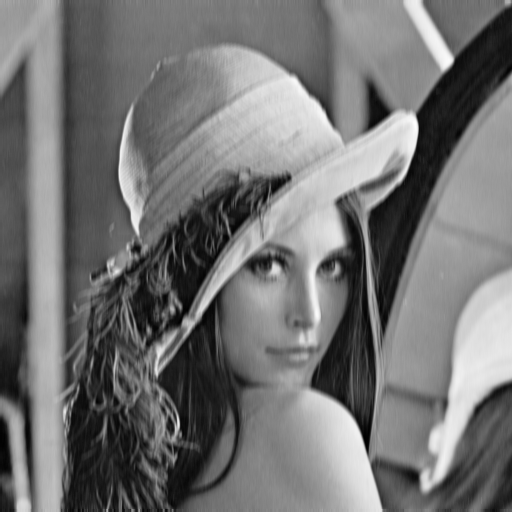
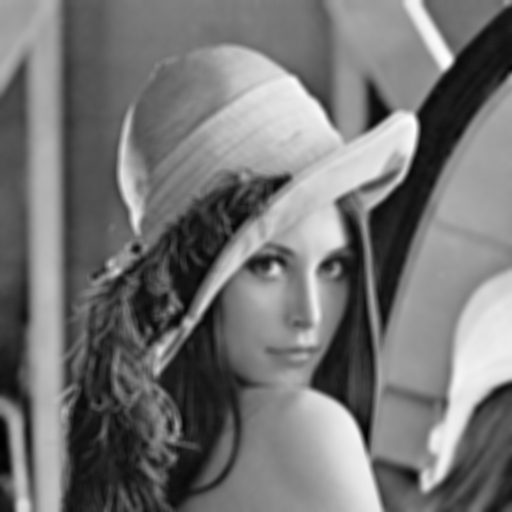
refactored blur result

diff --git a/src/image/filter.rs b/src/image/filter.rs
@@ -15,9 +15,7 @@ fn gaussian_1_d_kernel(mean: f64, std: f64, step: i8, end: i8) -> Vec<f64> {
     range.map(|x| gaussian_sample(mean,std,x as f64)).collect()
 }
 
-//TODO: normalize both
-
-pub fn gaussian_1_d_convolution_horizontal(source: & Image, target: &mut Image ,mean: f64, std: f64) -> () {
+pub fn gaussian_1_d_convolution_horizontal(source: &Image, mean: f64, std: f64) -> Image {
     let step: i8 = 1;
     let end: i8 = 3;
     let offset = (end as usize)/(step as usize);
@@ -27,6 +25,7 @@ pub fn gaussian_1_d_convolution_horizontal(source: & Image, target: &mut Image ,
     let buffer = &source.buffer;
     let width = buffer.ncols();
     let height = buffer.nrows();
+    let mut target =  Image::empty(height, width, source.original_encoding);
 
 
     for y in 0..height {
@@ -36,9 +35,9 @@ pub fn gaussian_1_d_convolution_horizontal(source: & Image, target: &mut Image ,
                     let sample_idx = (x as i32)+i;
                     let kenel_idx = i +offset as i32;
 
-                    let sample_value = match x {
-                        x if x < offset =>  buffer.index((y,0)),
-                        x if x >=  width-offset => buffer.index((y,width -1)),
+                    let sample_value = match sample_idx {
+                        sample_idx if sample_idx < 0 =>  buffer.index((y,0)),
+                        sample_idx if sample_idx >=  (width-offset) as i32 => buffer.index((y,width -1)),
                         _ => buffer.index((y,sample_idx as usize))
                     };
                     let kenel_value = kernel[kenel_idx as usize];
@@ -48,18 +47,13 @@ pub fn gaussian_1_d_convolution_horizontal(source: & Image, target: &mut Image ,
                 target.buffer[(y,x)] = acc;
 
         }
-
-
-
     }
 
-
-
-
+    target
 
 }
 
-pub fn gaussian_1_d_convolution_vertical(source: & Image, target: &mut Image,mean: f64, std: f64) -> () {
+pub fn gaussian_1_d_convolution_vertical(source: & Image,mean: f64, std: f64) -> Image {
     let step: i8 = 1;
     let end: i8 = 3;
     let offset = (end as usize)/(step as usize);
@@ -69,6 +63,7 @@ pub fn gaussian_1_d_convolution_vertical(source: & Image, target: &mut Image,mea
     let buffer =  &source.buffer;
     let width = buffer.ncols();
     let height = buffer.nrows();
+    let mut target =  Image::empty(height, width, source.original_encoding);
 
     for x in 0..width {
         for y in 0..height {
@@ -77,9 +72,9 @@ pub fn gaussian_1_d_convolution_vertical(source: & Image, target: &mut Image,mea
             for i in (-offset_signed..offset_signed+1). step_by(step as usize){
                 let sample_idx = (y as i32)+i;
                 let kenel_idx = i +offset as i32;
-                let sample_value = match y {
-                    y if y < offset =>  buffer.index((0,x)),
-                    y if y >=  height-offset => buffer.index((height -1,x)),
+                let sample_value = match sample_idx {
+                    sample_idx if sample_idx < 0 =>  buffer.index((0,x)),
+                    sample_idx if sample_idx >=  (height-offset) as i32 => buffer.index((height -1,x)),
                     _ =>  buffer.index((sample_idx as usize, x))
                 };
                 let kenel_value = kernel[kenel_idx as usize];
@@ -91,5 +86,12 @@ pub fn gaussian_1_d_convolution_vertical(source: & Image, target: &mut Image,mea
 
     }
 
+    target
+
+}
+
+pub fn blur(image: &Image, sigma: f32) -> Image {
+    //TODO separate into 2x 1d
+    image.clone()
 }
 

diff --git a/examples/blur.rs b/examples/blur.rs
@@ -9,17 +9,26 @@ fn main() {
     let image_name = "lenna";
     let image_format = "png";
     let image_path = format!("images/{}.{}",image_name, image_format);
-    let converted_file_out_path = format!("output/{}_blur.{}",image_name,image_format);
+    let blur_2d_file_out_path = format!("output/{}_blur.{}",image_name,image_format);
+    let blur_hor_file_out_path = format!("output/{}_hor_bur.{}",image_name,image_format);
+    let blur_vert_file_out_path = format!("output/{}_vert_blur.{}",image_name,image_format);
 
 
     let image = image_rs::open(&Path::new(&image_path)).unwrap().to_luma();
     let frame = Image::from_gray_image(&image);
-    let mut target = Image::empty(frame.buffer.nrows(), frame.buffer.ncols(), ImageEncoding::U8);
+    
 
-    filter::gaussian_1_d_convolution_horizontal(&frame,&mut target, 0.0, 5.5);
-    filter::gaussian_1_d_convolution_vertical(&frame,&mut target, 0.0, 5.5);
+    let blur_hor = filter::gaussian_1_d_convolution_horizontal(&frame, 0.0, 5.5);
 
-    let new_image = target.to_image();
+    let blur_hor_image = blur_hor.to_image();
+    blur_hor_image.save(blur_hor_file_out_path).unwrap();
 
-    new_image.save(converted_file_out_path).unwrap();
+    let blur_2d = filter::gaussian_1_d_convolution_vertical(&blur_hor, 0.0, 5.5);
+    let blur_vert = filter::gaussian_1_d_convolution_vertical(&frame, 0.0, 5.5);
+
+    let blur_vert_image = blur_vert.to_image();
+    blur_vert_image.save(blur_vert_file_out_path).unwrap();
+
+    let blur_2d_image = blur_2d.to_image();
+    blur_2d_image.save(blur_2d_file_out_path).unwrap();
 }

diff --git a/src/pyramid/octave.rs b/src/pyramid/octave.rs
@@ -1,7 +1,7 @@
 extern crate image as image_rs;
 
 use image_rs::GrayImage;
-use crate::image::Image;
+use crate::image::{Image, filter};
 
 #[derive(Debug,Clone)]
 pub struct Octave {
@@ -18,7 +18,7 @@ impl Octave {
         let base_image = Image::from_gray_image(gray_image);
 
         let sigmas: Vec<f32> = range.map(|x| sigma_initial*Octave::generate_k(x as f32, s as f32)).collect();
-        let images = sigmas.iter().map(|&sigma| Image::blur(&base_image, sigma)).collect();
+        let images = sigmas.iter().map(|&sigma| filter::blur(&base_image, sigma)).collect();
 
         Octave {images,sigmas}
     }

diff --git a/src/image/mod.rs b/src/image/mod.rs
@@ -39,12 +39,6 @@ impl Image {
         return Image::matrix_to_image(&self.buffer,  self.original_encoding);
     }
 
-    pub fn blur(image: &Image, sigma: f32) -> Image {
-
-        //TODO separate into 2x 1d
-        image.clone()
-    }
-
     fn image_to_matrix(gray_image: &GrayImage) -> DMatrix<Float> {
         debug_assert!(gray_image.sample_layout().is_normal(NormalForm::RowMajorPacked));
     
